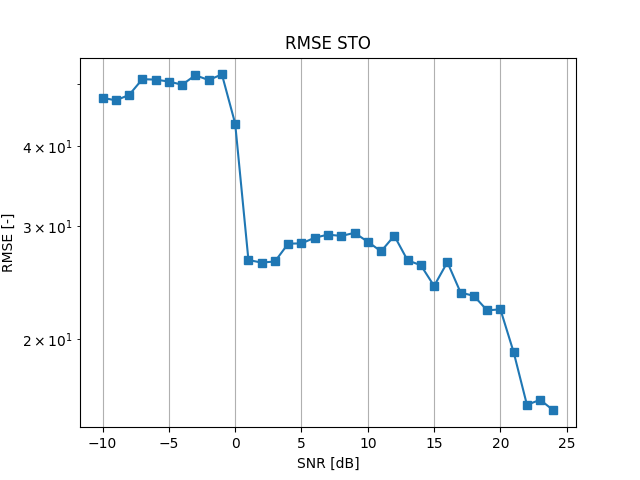
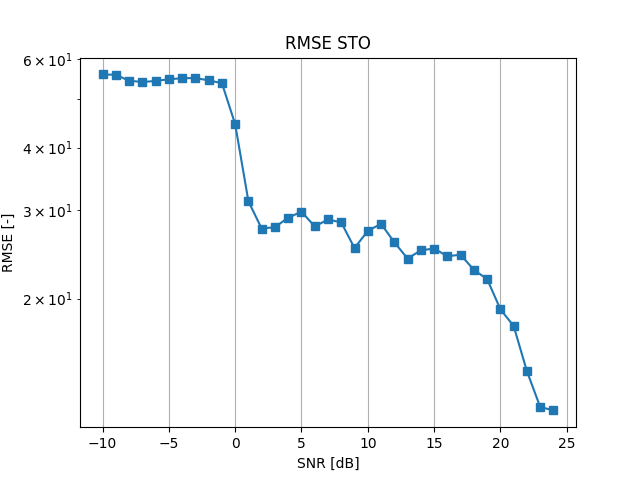
Passing 6 tests of 12, cfo better, but not donne.

diff --git a/telecom/hands_on_simulation/chain.py b/telecom/hands_on_simulation/chain.py
@@ -149,7 +149,7 @@ class BasicChain(Chain):
         """
         # TO DO: extract 2 blocks of size N*R at the start of y
 
-        N = self.payload_len
+        N = len(self.preamble)//8 # 4 bytes per preamble
         R = self.osr_rx
         Nt = N * R
 
